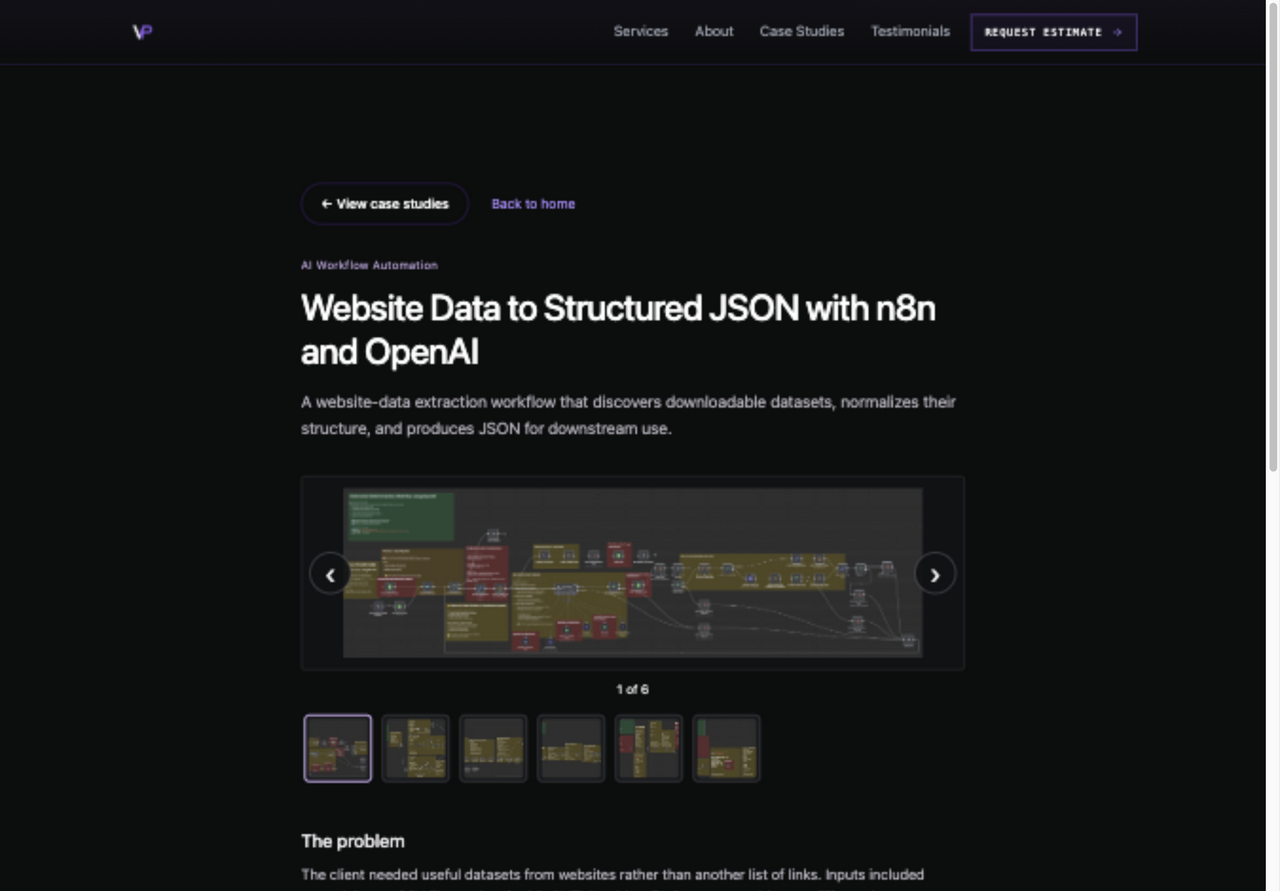
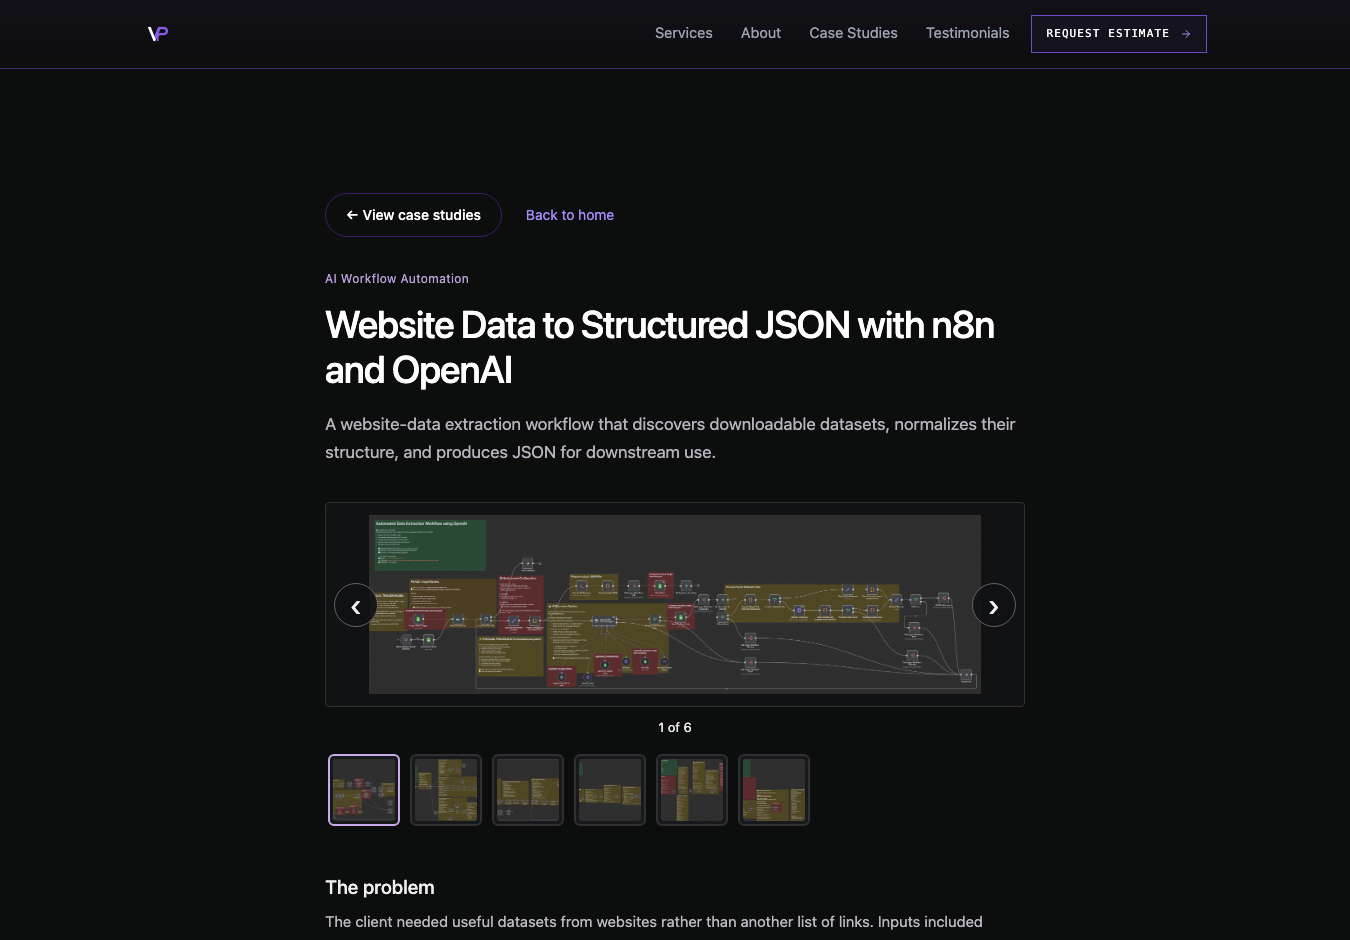
perf(case-studies): preserve cover texture and prioritize LCP

diff --git a/tools/generate-case-study-display-images.js b/tools/generate-case-study-display-images.js
@@ -12,6 +12,14 @@ const LANDSCAPE_SHORT_EDGE = 600;
 const PORTRAIT_WIDTH = 720;
 const QUALITY_STEPS = [86, 84, 82, 80, 78, 76, 74, 72, 70, 68, 66, 64, 62, 60];
 const IMAGE_EXTENSION = /\.(?:avif|jpe?g|png|webp)$/i;
+const reviewedProfilesBySourceHash = Object.freeze({
+  // Resampling this workflow's 2448x684 dot grid erases the pattern at card size.
+  // Preserve its natural dimensions while converting the approved PNG to bounded WebP.
[1 lines of base64/hex data omitted]
+    resize: false,
+    webp: Object.freeze({ quality: 59, nearLossless: true, effort: 6 }),
+  }),
+});
 
 sharp.cache(false);
 sharp.concurrency(1);
@@ -41,6 +49,18 @@ export const caseStudyImageSources = (publication) => {
 export const encodeCaseStudyDisplay = async (sourceBytes) => {
   const metadata = await sharp(sourceBytes, { failOn: 'error' }).metadata();
   if (!(metadata.width > 0 && metadata.height > 0)) throw new Error('Cannot read case-study source dimensions');
+  const reviewedProfile = reviewedProfilesBySourceHash[sha256(sourceBytes)];
+  if (reviewedProfile) {
+    const source = sharp(sourceBytes, { failOn: 'error' });
+    const encoder = reviewedProfile.resize ? source.resize(reviewedProfile.resize) : source;
+    const { data, info } = await encoder
+      .webp(reviewedProfile.webp)
+      .toBuffer({ resolveWithObject: true });
+    if (data.byteLength > MAX_DISPLAY_BYTES) {
+      throw new Error(`Reviewed case-study display profile exceeds the ${MAX_DISPLAY_BYTES}-byte limit`);
+    }
+    return { data, quality: reviewedProfile.webp.quality, width: info.width, height: info.height };
+  }
   const resize = metadata.width < metadata.height
     ? { width: PORTRAIT_WIDTH }
     : { height: LANDSCAPE_SHORT_EDGE };

diff --git a/src/components/CaseStudyCard.test.jsx b/src/components/CaseStudyCard.test.jsx
@@ -55,12 +55,20 @@ describe('CaseStudyCard', () => {
     render(<MemoryRouter><CaseStudyCard project={{ ...project, image }} /></MemoryRouter>);
 
     const cover = screen.getByAltText(image.alt);
-    expect(cover.getAttribute('src')).toBe('/assets/case-studies/case-study-display-f36fee637d46-dfc9dfc26ce1.webp');
+    expect(cover.getAttribute('src')).toBe('/assets/case-studies/case-study-display-f36fee637d46-5ad6c7685bd1.webp');
     expect(cover.getAttribute('src')).not.toBe(image.src);
     expect(cover.getAttribute('width')).toBe(String(image.width));
     expect(cover.getAttribute('height')).toBe(String(image.height));
     expect(cover.getAttribute('loading')).toBe('lazy');
     expect(cover.className).toContain('object-cover');
+  });
+
+  it('loads an explicitly prioritized cover eagerly with high fetch priority', () => {
+    render(<MemoryRouter><CaseStudyCard project={project} priorityImage /></MemoryRouter>);
+
+    const cover = screen.getByAltText(project.image.alt);
+    expect(cover.getAttribute('loading')).toBe('eager');
+    expect(cover.getAttribute('fetchpriority')).toBe('high');
   });
 
   it('keeps the Upwork destination separate from the full-card article link', () => {

diff --git a/src/components/CaseStudyCard.js b/src/components/CaseStudyCard.js
@@ -34,6 +34,7 @@ const ArrowGlyph = () =>
 const CaseStudyCard = ({
   project,
   fromCollection = false,
+  priorityImage = false,
 }) => {
   const completionDate = formatCompletionDate(project.completedAt);
   const upworkLink = project.externalLinks?.find((link) => link.label === 'Upwork project');
@@ -57,7 +58,9 @@ const CaseStudyCard = ({
         project.image ? React.createElement('img', {
           className: 'absolute inset-0 w-full h-full object-cover block',
           alt: project.image.alt, src: caseStudyDisplaySrc(project.image),
-          width: project.image.width, height: project.image.height, loading: 'lazy',
+          width: project.image.width, height: project.image.height,
+          loading: priorityImage ? 'eager' : 'lazy',
+          fetchpriority: priorityImage ? 'high' : undefined,
         }) : null,
         React.createElement('div', { className: 'scrim absolute inset-0 bg-gradient-to-b from-transparent via-[rgba(12,13,13,0.35)] to-[rgba(12,13,13,0.92)] z-[1]', 'aria-hidden': true }),
         React.createElement(

diff --git a/src/components/CaseStudyCollection.test.jsx b/src/components/CaseStudyCollection.test.jsx
@@ -43,6 +43,25 @@ describe('CaseStudyCollection', () => {
     expect(container.querySelector('.md\\:grid-cols-2.lg\\:grid-cols-3')).toBeTruthy();
   });
 
+  it('prioritizes only the first collection cover', () => {
+    const storiesWithImages = stories.map((story, index) => ({
+      ...story,
+      image: {
+        src: `/synthetic-cover-${index}.png`,
+        alt: `Synthetic cover ${index}`,
+        width: 1280,
+        height: 720,
+      },
+    }));
+    render(<MemoryRouter><CaseStudyCollection stories={storiesWithImages} /></MemoryRouter>);
+
+    const [first, second] = screen.getAllByRole('img');
+    expect(first.getAttribute('loading')).toBe('eager');
+    expect(first.getAttribute('fetchpriority')).toBe('high');
+    expect(second.getAttribute('loading')).toBe('lazy');
+    expect(second.hasAttribute('fetchpriority')).toBe(false);
+  });
+
   it('renders a readable empty state', () => {
     render(
       <MemoryRouter>

diff --git a/src/lib/caseStudyThumbnails.js b/src/lib/caseStudyThumbnails.js
@@ -73,9 +73,9 @@ const displayDerivativesBySourceHash = Object.freeze({
     width: 960, height: 540,
   }),
[1 lines of base64/hex data omitted]
-    src: '/assets/case-studies/case-study-display-f36fee637d46-dfc9dfc26ce1.webp',
[1 lines of base64/hex data omitted]
-    width: 2147, height: 600,
+    src: '/assets/case-studies/case-study-display-f36fee637d46-5ad6c7685bd1.webp',
[1 lines of base64/hex data omitted]
+    width: 2448, height: 684,
   }),
[1 lines of base64/hex data omitted]
     src: '/assets/case-studies/case-study-display-c69906586afb-c5d214b1513f.webp',

diff --git a/src/components/CaseStudyCollection.js b/src/components/CaseStudyCollection.js
@@ -134,10 +134,11 @@ const CaseStudyCollection = ({ stories = collectionCaseStudies, children = null 
   const grid = React.createElement(
     'div',
     { id: gridId, className: 'grid grid-cols-1 gap-8 md:grid-cols-2 lg:grid-cols-3' },
-    visibleStories.map((story) => React.createElement(CaseStudyCard, {
+    visibleStories.map((story, index) => React.createElement(CaseStudyCard, {
       key: story.slug,
       project: story,
       fromCollection: true,
+      priorityImage: index === 0,
     })),
   );
   const noscriptLinks = isStaticRender && hasMore

diff --git a/docs/testing/2026-10-01-case-study-display-images.md b/docs/testing/2026-10-01-case-study-display-images.md
@@ -3,11 +3,15 @@
 Issue: [#251](https://github.com/vivekpatel99/my-portfolio-webisite/issues/251).
 Starting `develop`: `448af6aff86db8304d21e15caf90a849f11fbf58`.
 The next available item in #267 was rechecked and reproduced on that revision.
+`develop` later advanced to `282d2a20e4eec5bf947303d88efe7df91d3dc860`; the
+remote PR branch was externally synchronized. The checkout retained that merge,
+and the final baseline and comparison below use updated `develop`.
 
 Cards and inline galleries previously requested originals. The registry now
 binds 29 published source paths to 23 distinct WebP display assets. All display
 assets are 16,110–99,108 bytes. Expanded images and original-image links retain
-the original source. CSS, intrinsic width/height attributes, object-cover,
+the original source. The first collection cover loads eagerly with high
+fetch priority; other cards remain lazy. CSS, intrinsic width/height attributes, object-cover,
 stage aspect ratios, frames, layout and motion code are unchanged.
 
 ## Cold-cache measurements
@@ -21,12 +25,12 @@ PerformanceObserver after network idle plus 1.5 seconds.
 
 | Route/profile | Before LCP (ms) | After LCP (ms) | Median before → after |
 |---|---|---|---|
-| Collection, 412×823 DPR 1.75 | 4280, 4272, 4280 | 1860, 1856, 1868 | 4280 → 1860 |
-| n8n article, 1350×940 DPR 1 | 4124, 4112, 4112 | 1768, 1760, 1752 | 4112 → 1760 |
-| Home, 1350×940 DPR 1 | 1800, 1796, 1796 | 1800, 1804, 1796 | 1796 → 1800 |
+| Collection, 412×823 DPR 1.75 | 4272, 4272, 4260 | 1720, 1728, 1736 | 4272 → 1728 |
+| n8n article, 1350×940 DPR 1 | 4116, 4112, 4116 | 1760, 1744, 1756 | 4116 → 1756 |
+| Home, 1350×940 DPR 1 | 1772, 1788, 1808 | 1804, 1800, 1796 | 1788 → 1800 |
 
 Every measured image request is below 100,000 bytes after the change. The
-collection's maximum is 79,588 bytes; the article/home maximum is 98,082 bytes.
+collection's maximum is 87,896 bytes; the article/home maximum is 98,082 bytes.
 Resource entries include browser preload/hydration requests, so their totals
 are not unique-file inventories. [Compact results](case-study-display-images-251/measurements.json).
 
@@ -44,7 +48,10 @@ The build regenerates derivatives in a temporary directory with pinned Sharp
 content-addressed filenames and dimensions. It fails rather than overwriting
 stale committed assets. To create new assets, use
 `node tools/generate-case-study-display-images.js --write`, then review its
-reported bindings and update the registry deliberately.
+reported bindings and update the registry deliberately. The invoice workflow
+cover has a source-hash-specific reviewed near-lossless profile: retaining its
+2448×684 dimensions preserves the faint dot grid lost by resampling. Its WebP
+is 87,896 bytes; the other 22 display assets retain the normal bounded profile.
 
 ## Rendered verification
 
@@ -54,12 +61,20 @@ in a 700×205 stage. The mobile collection card remains 339×300 CSS px in T3
 with its visible scrollbar; the fresh lab profile renders 354×300. The mobile
 inline article stage is 353×103.390625 with no page horizontal overflow.
 
-The screenshots below are downscaled T3 captures of those same viewports.
+T3 verified initial and corrected rendering. Its automation host subsequently
+disconnected; reopening did not restore evaluation, so the final paired captures
+and checks used the local Chromium runner. Both sides used identical contexts
+and viewport/DPR settings. The mobile captures are 721×1440 physical pixels
+for 412×823 CSS px at DPR 1.75; the desktop captures are 1350×940 at DPR 1.
+The final runner measures unchanged mobile card geometry at 354×300 and
+article geometry at 674×179.015625, with no page horizontal overflow.
+[Rendered checks](case-study-display-images-251/rendered-checks.json).
+
 Pixel changes are confined to image content: mean absolute RGB channel delta
-is 0.1645/255 for the article and 0.2155/255 for the collection. Codex inspected
-the before/after rendered images and found no visible identity or geometry
-change. WebP introduces small pixel differences; these captures are not a
-claim of byte-exact visual equality.
+is 0.2329/255 for the article and 0.0314/255 for the collection. Codex inspected
+both sides at CSS scale: the corrected cover retains its dotted texture, frames,
+colors and geometry. Small WebP pixel differences remain; the captures do not
+claim byte-exact visual equality.
 
 | Surface | Before | After |
 |---|---|---|
@@ -74,7 +89,7 @@ normal and reduced motion in Chromium and WebKit, desktop and mobile.
 
 ## Checks and limits
 
-- `npm test -- --run`: 64 files, 716 tests passed, including card/gallery,
+- `npm test`: 64 files, 718 tests passed, including card/gallery,
   publication/plugin guards and generator negative-path tests.
 - `npm run build`: passed; 23 regenerated derivatives verified for 29 sources;
   Vite and 21 static routes generated successfully.
@@ -83,8 +98,8 @@ normal and reduced motion in Chromium and WebKit, desktop and mobile.
 - Gallery-focused Playwright matrix: 38 passed, two failed. Both failures are
   WebKit desktop normal/reduced-motion assertions for the short wide stage:
   expected ratio 4.672489, actual 4.610951, tolerance 0.05. The identical two
-  failures and values were reproduced on an immutable export of starting
-  `develop`. No assertions or gallery CSS were relaxed.
+  failures and values were reproduced on an immutable export of starting and updated
+  `develop`, using each baseline’s own tests. No assertions or gallery CSS were relaxed.
 - A mobile six-image enlarged dialog already overflows on starting `develop`
   (462 px width, left −73 px at viewport 412×823); the task has identical
   geometry. This pre-existing gallery CSS issue remains outside #251.
@@ -93,5 +108,7 @@ normal and reduced motion in Chromium and WebKit, desktop and mobile.
 - Measurements are local lab evidence. Field data, deployed host caching,
   Firefox and real Safari were not verified. No merge or deployment performed.
 
-The fresh review verdict is recorded in the PR. Keep #251 open until its
+An earlier review caught the texture loss. The final correction retains the
+texture and starts the critical cover eagerly; its exact-commit fresh review
+verdict is recorded in the PR. Keep #251 open until its
 acceptance and merge conditions are met.
